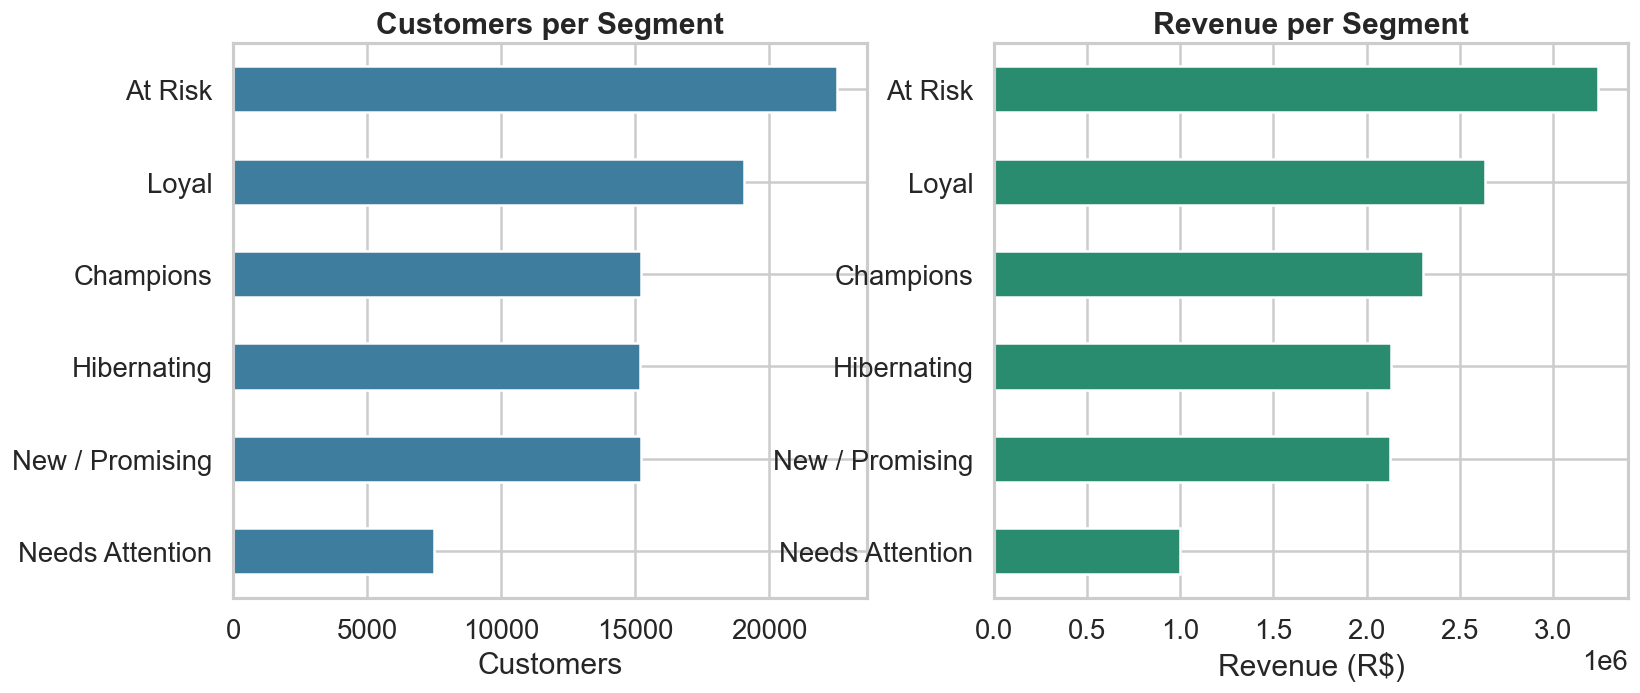
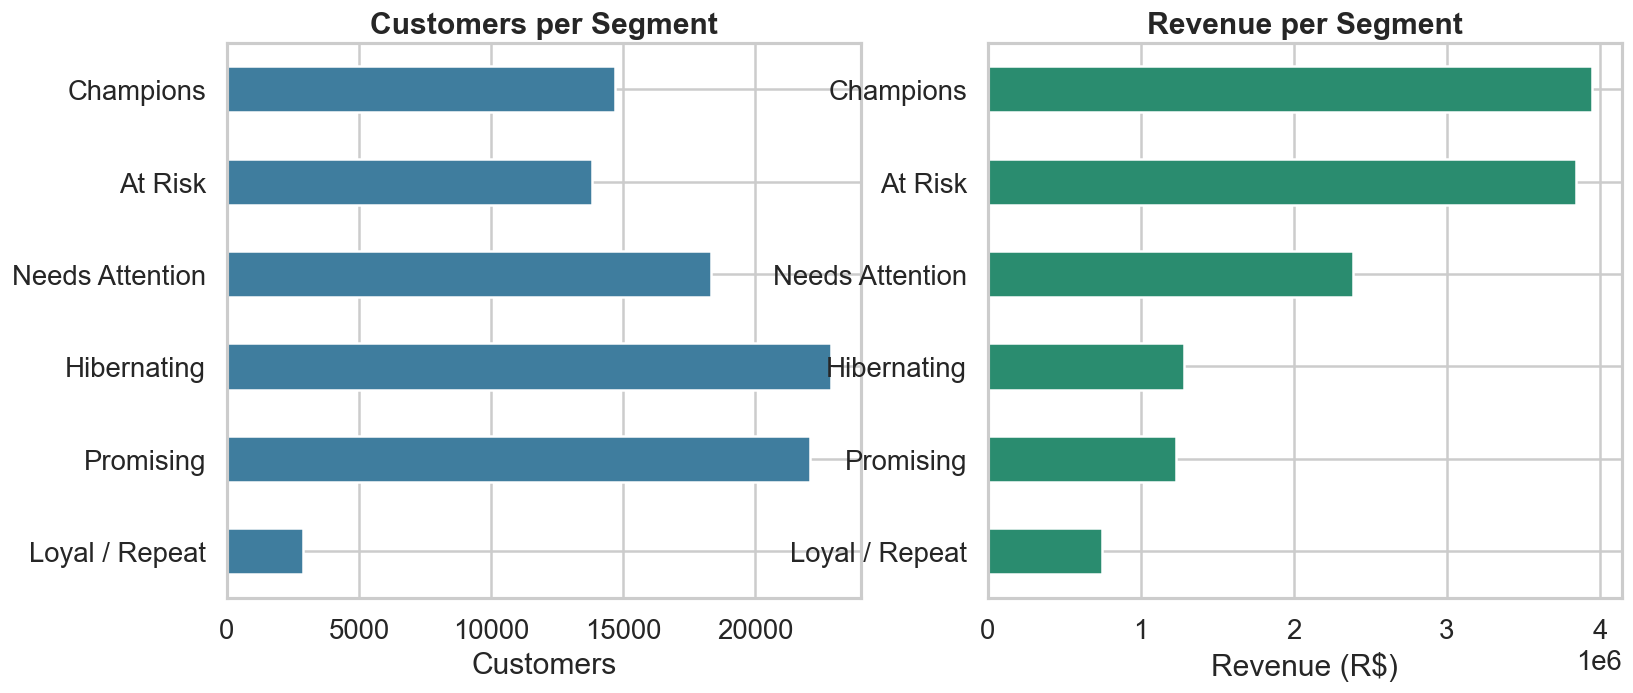
Fix RFM: treat frequency as binary repeat flag (fixes misleading loyalty segments)

diff --git a/src/churn_analysis.py b/src/churn_analysis.py
@@ -47,28 +47,29 @@ def build_rfm(orders: pd.DataFrame) -> pd.DataFrame:
         )
     )
 
-    # Score 1-5. Recency is reverse-scored (recent = high). Frequency is mostly
-    # 1, so rank with ties spread out before cutting into quintiles.
+    # Recency and Monetary have real spread, so quintile scores are meaningful
+    # (recency reverse-scored: recent = 5).
     rfm["r_score"] = pd.qcut(rfm["recency"], 5, labels=[5, 4, 3, 2, 1]).astype(int)
-    rfm["f_score"] = pd.qcut(rfm["frequency"].rank(method="first"), 5, labels=[1, 2, 3, 4, 5]).astype(int)
     rfm["m_score"] = pd.qcut(rfm["monetary"], 5, labels=[1, 2, 3, 4, 5]).astype(int)
+    # Frequency is degenerate here - ~97% of customers order exactly once - so a
+    # 5-way F score would just be noise. Treat loyalty as a binary repeat flag
+    # and segment the one-time majority on recency x monetary instead.
+    rfm["is_repeat"] = rfm["frequency"] > 1
     rfm["segment"] = rfm.apply(_segment, axis=1)
     return rfm
 
 
 def _segment(row) -> str:
-    r, f = row["r_score"], row["f_score"]
-    if r >= 4 and f >= 4:
-        return "Champions"
-    if r >= 3 and f >= 3:
-        return "Loyal"
-    if r >= 4 and f <= 2:
-        return "New / Promising"
-    if r <= 2 and f >= 3:
-        return "At Risk"
-    if r <= 2 and f <= 2:
-        return "Hibernating"
-    return "Needs Attention"
+    # Repeat buyers are the genuinely loyal minority; everyone else ordered once
+    # and is placed by how recently they bought and how much they spent.
+    if row["is_repeat"]:
+        return "Loyal / Repeat"
+    r, m = row["r_score"], row["m_score"]
+    if r >= 4:
+        return "Champions" if m >= 4 else "Promising"
+    if r <= 2:
+        return "At Risk" if m >= 4 else "Hibernating"
+    return "Needs Attention"  # middle recency band
 
 
 def plot_segments(rfm: pd.DataFrame) -> None:

diff --git a/reports/SUMMARY.md b/reports/SUMMARY.md
@@ -43,16 +43,19 @@ honest read on a plateaued series with only one year of seasonal history.
 
 ## 3. Churn & retention
 
-**RFM segmentation** of 94.7k customers:
+**RFM segmentation** of 94.7k customers. Frequency is degenerate here — ~97% of
+customers order exactly once — so a classic 5×5 RFM would fabricate loyalty that
+isn't there. Instead loyalty is a binary repeat flag (its own segment), and the
+one-time majority is segmented on recency × monetary:
 
-| Segment | Customers | Revenue share |
-|---------|-----------|---------------|
-| At Risk | 22,540 | 24.1% |
-| Loyal | 19,069 | 19.6% |
-| Champions | 15,207 | 17.1% |
-| Hibernating | 15,172 | 15.9% |
-| New / Promising | 15,229 | 15.8% |
-| Needs Attention | 7,477 | 7.4% |
+| Segment | Customers | Revenue share | Who they are |
+|---------|-----------|---------------|--------------|
+| Champions       | 14,709 | 29.4% | recent, high-spend (prime to convert to repeat) |
+| At Risk         | 13,814 | 28.6% | were high-spend, now gone quiet |
+| Needs Attention | 18,329 | 17.8% | middle recency band |
+| Hibernating     | 22,879 |  9.5% | old and low-value |
+| Promising       | 22,087 |  9.2% | recent but low-spend |
+| Loyal / Repeat  |  2,876 |  5.6% | the ~3% who actually reorder |
 
 **Repeat-purchase model** (predict a 2nd order from 1st-order features):
 ROC-AUC 0.61 — weak but real signal. Framed as targeting rather than
@@ -90,8 +93,9 @@ Rates are assumptions; the *relative* rankings are the point.
 
 ## Recommendations
 
-1. **Retention program** targeting the model's top deciles + "At Risk" /
-   "Loyal" RFM segments, which together hold the majority of revenue.
+1. **Retention program** targeting the model's top propensity deciles plus the
+   "Champions" and "At Risk" segments (recent high-spenders to convert, and
+   lapsing high-value customers to win back) — together ~58% of revenue.
 2. **Logistics investment** (freight is the #1 margin drag) — regional fulfilment
    to cut the 17–18% freight burden in non-SP states; reconsider free-shipping
    on low-value heavy categories (electronics, telephony, food/drink).
